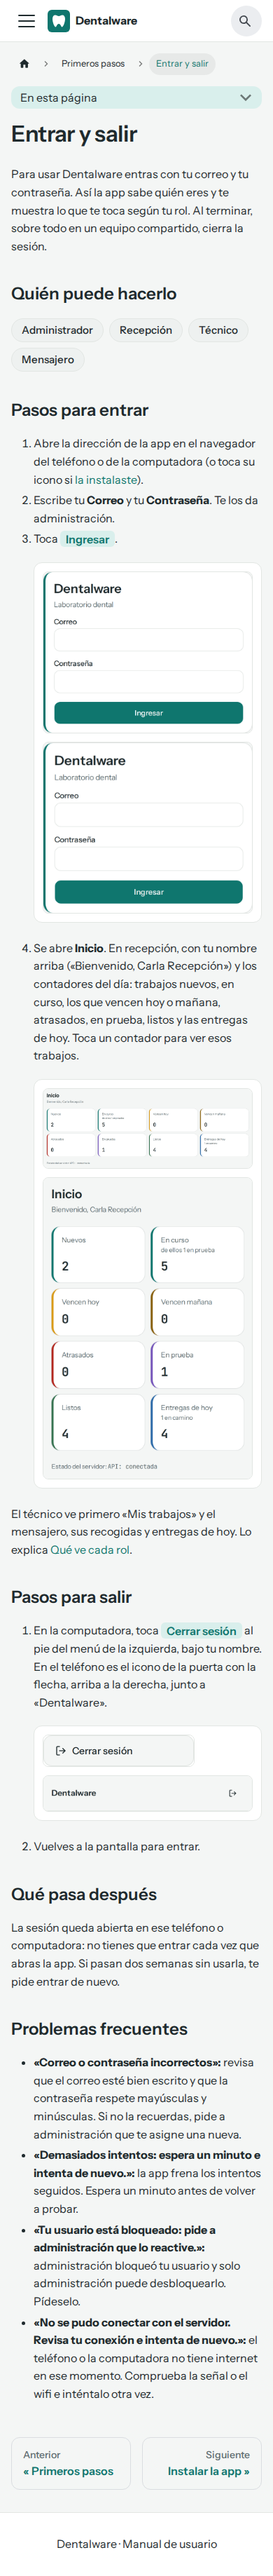
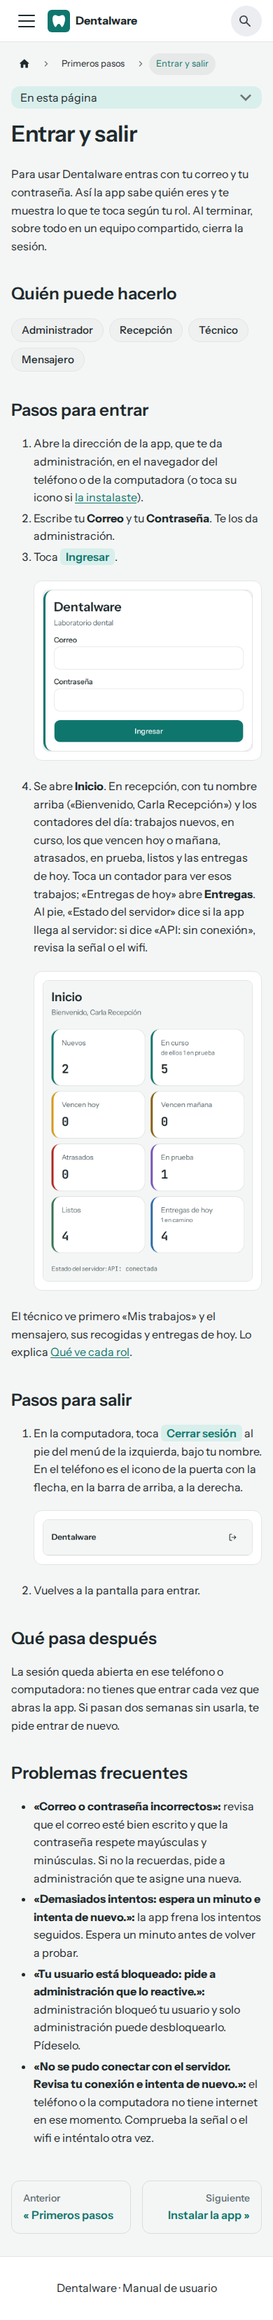
fix(manual): primeros pasos tras la revisión
- Instalar la app: rótulos del sistema tolerantes («Añadir» o «Agregar»,
  «Compartir» dentro de «⋯»), sin la frase sobre otros navegadores y con
  el pendiente de comprobarlos en teléfonos reales (también en la revisión
  de la It7).
- En el teléfono, una captura con las dos variantes muestra solo la del
  teléfono; entrar-formulario queda solo en escritorio.
- `recorte` (puro, con test) lanza si el elemento más el margen no cabe.
- El cruce comprueba que el lector encuentra cada `<Captura` de las guías.
- Prosa de Entrar y salir y vocabulario Administrador/administración;
  `:::info` admitido en la plantilla y el README.
- Enlaces del texto subrayados (Lighthouse link-in-text-block): 100 en
  accesibilidad en las tres guías.

Refs #127

Claude-Session: https://claude.ai/code/session_01QWXyKd64kwAcEzKZeJy9Ue

Changed region(s): [[0.0308, 0.0, 0.9538, 0.9961], [0.5538, 0.9649, 0.5846, 0.9961], [0.4615, 0.9649, 0.4923, 0.9961]]

diff --git a/apps/docs/capturas/helpers.ts b/apps/docs/capturas/helpers.ts
@@ -4,6 +4,7 @@ import type { UserRole } from '@dentalware/shared'
 import { expect, type Browser, type Locator, type Page, type TestInfo } from '@playwright/test'
 import sharp from 'sharp'
 import { esProyecto, rutaCaptura, type Proyecto } from '../src/capturas-rutas'
+import { recorte } from './recorte'
 
 // `__dirname` y no `import.meta.dirname`: apps/docs no lleva `"type": "module"` (rompe el SSR de
 // Docusaurus), así que Playwright carga estos archivos como CommonJS.
@@ -68,7 +69,7 @@ const SIN_DEVTOOLS = `.TanStackRouterDevtools, .tsqd-parent-container, .tsqd-tra
  * está: una guía nunca se queda con una captura vieja sin que lo note nadie. La de página también
  * espera a un elemento propio de la pantalla, para no capturarla a medio cargar. Con `margen`
  * (en px de CSS), el recorte deja ese aire de fondo de la página alrededor del elemento, que
- * tiene que caber en la ventana. */
+ * tiene que caber en la ventana (si no, `recorte` lanza). */
 export async function captura(
   page: Page,
   nombre: string,
@@ -92,21 +93,12 @@ export async function captura(
           await expect(objetivo).toBeVisible()
           await objetivo.scrollIntoViewIfNeeded()
           if (!opciones.margen) return objetivo.screenshot(comun)
-          return page.screenshot({ ...comun, clip: await recorte(page, objetivo, opciones.margen) })
+          const caja = await objetivo.boundingBox()
+          const ventana = page.viewportSize()
+          if (!caja || !ventana) throw new Error(`No se pudo medir el elemento de ${nombre}.`)
+          return page.screenshot({ ...comun, clip: recorte(caja, ventana, opciones.margen) })
         })()
   await sharp(png).png({ compressionLevel: 9, palette: true }).toFile(destino)
-}
-
-/** La caja del elemento más `margen` px por lado, sin salirse de la ventana. */
-async function recorte(page: Page, objetivo: Locator, margen: number) {
-  const caja = await objetivo.boundingBox()
-  const ventana = page.viewportSize()
-  if (!caja || !ventana) throw new Error('No se pudo medir el elemento de la captura.')
-  const x = Math.max(0, caja.x - margen)
-  const y = Math.max(0, caja.y - margen)
-  const derecha = Math.min(ventana.width, caja.x + caja.width + margen)
-  const abajo = Math.min(ventana.height, caja.y + caja.height + margen)
-  return { x, y, width: derecha - x, height: abajo - y }
 }
 
 /** Abre la ficha del trabajo de demostración por la referencia del paciente (`DEMO_CASES`). */

diff --git a/apps/docs/capturas/recorte.ts b/apps/docs/capturas/recorte.ts
@@ -1,0 +1,33 @@
+/** Caja en px de CSS, relativa a la ventana (la de `locator.boundingBox()`). */
+export type Caja = { x: number; y: number; width: number; height: number }
+
+/** Lo que mide de más una caja por redondeo (15.6 en vez de 16) sin que deje de caber. */
+const TOLERANCIA = 0.5
+
+/** La caja del elemento más `margen` px por lado. Lanza si no cabe en la ventana: con `margen`
+ * se recorta la página, que no se desplaza, y un elemento más grande saldría cortado. */
+export function recorte(caja: Caja, ventana: { width: number; height: number }, margen: number) {
+  const x = caja.x - margen
+  const y = caja.y - margen
+  const derecha = caja.x + caja.width + margen
+  const abajo = caja.y + caja.height + margen
+  if (
+    x < -TOLERANCIA ||
+    y < -TOLERANCIA ||
+    derecha > ventana.width + TOLERANCIA ||
+    abajo > ventana.height + TOLERANCIA
+  ) {
+    throw new Error(
+      `La captura con margen ${margen} no cabe en la ventana (${ventana.width}×${ventana.height}): ` +
+        `el elemento mide ${caja.width}×${caja.height} en (${caja.x}, ${caja.y}).`,
+    )
+  }
+  const izquierda = Math.max(0, x)
+  const arriba = Math.max(0, y)
+  return {
+    x: izquierda,
+    y: arriba,
+    width: Math.min(ventana.width, derecha) - izquierda,
+    height: Math.min(ventana.height, abajo) - arriba,
+  }
+}

diff --git a/apps/docs/capturas/recorte.test.ts b/apps/docs/capturas/recorte.test.ts
@@ -1,0 +1,36 @@
+import { describe, expect, it } from 'vitest'
+import { recorte } from './recorte'
+
+const ventana = { width: 412, height: 839 }
+
+describe('recorte', () => {
+  it('suma el margen por los cuatro lados', () => {
+    expect(recorte({ x: 16, y: 73, width: 380, height: 592 }, ventana, 16)).toEqual({
+      x: 0,
+      y: 57,
+      width: 412,
+      height: 624,
+    })
+  })
+
+  it('lanza si el elemento más el margen no cabe a lo ancho', () => {
+    expect(() => recorte({ x: 8, y: 100, width: 380, height: 100 }, ventana, 16)).toThrow(
+      'La captura con margen 16 no cabe en la ventana (412×839): el elemento mide 380×100 en (8, 100).',
+    )
+  })
+
+  it('lanza si el elemento más el margen no cabe a lo alto', () => {
+    expect(() => recorte({ x: 16, y: 100, width: 380, height: 730 }, ventana, 16)).toThrow(
+      'no cabe en la ventana',
+    )
+  })
+
+  it('tolera medio píxel de redondeo en los bordes', () => {
+    expect(recorte({ x: 15.6, y: 16, width: 380.8, height: 100 }, ventana, 16)).toEqual({
+      x: 0,
+      y: 0,
+      width: 412,
+      height: 132,
+    })
+  })
+})

diff --git a/apps/docs/src/css/custom.css b/apps/docs/src/css/custom.css
@@ -76,6 +76,13 @@ h1 {
   letter-spacing: -0.01em;
 }
 
+/* Los enlaces dentro del texto se distinguen también por el subrayado, no solo por el color
+ * (Lighthouse `link-in-text-block`). Las tarjetas de la portada ya son bloques con borde. */
+.markdown :is(p, li, td) > a:not(.portada__acceso) {
+  text-decoration: underline;
+  text-underline-offset: 0.15em;
+}
+
 /* Objetivos táctiles de 44 px: menú lateral (también el del teléfono), sus flechas y el menú del
  * teléfono */
 .menu__link,
@@ -140,6 +147,14 @@ h1 {
   height: auto;
   border: 1px solid var(--dw-plaster);
   border-radius: 0.5rem;
+}
+
+/* En el teléfono, de una captura con las dos variantes solo se ve la del teléfono: la de
+ * escritorio, encogida a 360 px, no se lee. */
+@media (max-width: 767px) {
+  .captura--doble .captura__img--escritorio {
+    display: none;
+  }
 }
 
 .captura figcaption {

diff --git a/apps/docs/capturas-referenciadas.test.ts b/apps/docs/capturas-referenciadas.test.ts
@@ -108,6 +108,16 @@ describe('lectura de <Captura> en las guías', () => {
 })
 
 describe('capturas referenciadas', () => {
+  it('el lector encuentra todas las `<Captura` de cada guía (ninguna se le escapa)', () => {
+    const distintas = walk(join(root, 'docs'), /\.mdx?$/).flatMap((archivo) => {
+      const texto = readFileSync(archivo, 'utf8')
+      const etiquetas = texto.match(/<Captura\b/g)?.length ?? 0
+      const leidas = capturasEnTexto(texto).length
+      return etiquetas === leidas ? [] : [`${archivo}: ${etiquetas} etiquetas, ${leidas} leídas`]
+    })
+    expect(distintas).toEqual([])
+  })
+
   it('existe el PNG de cada variante que pide una guía (escritorio; con `telefono`, las dos; con `solo`, esa)', () => {
     const faltan = capturasEnDocs().flatMap(({ archivo, nombre, telefono, solo }) =>
       proyectosCaptura({ telefono, solo })

diff --git a/apps/docs/src/components/captura.test.tsx b/apps/docs/src/components/captura.test.tsx
@@ -62,6 +62,16 @@ describe('Captura', () => {
     )
   })
 
+  it('con las dos variantes, la figura lleva `captura--doble` (en el teléfono se ve solo la del teléfono)', () => {
+    const { container } = render(<Captura nombre="a/b" alt="x" telefono />)
+    expect(container.querySelector('figure')).toHaveClass('captura', 'captura--doble')
+  })
+
+  it('con una sola variante, sin `captura--doble`', () => {
+    const { container } = render(<Captura nombre="a/b" alt="x" />)
+    expect(container.querySelector('figure')).not.toHaveClass('captura--doble')
+  })
+
   it('el pie, si lo hay, va en un figcaption', () => {
     render(<Captura nombre="x/y" alt="x" pie="Así se ve con una recogida pendiente." />)
     expect(screen.getByText('Así se ve con una recogida pendiente.').tagName).toBe('FIGCAPTION')

diff --git a/apps/docs/capturas/primeros-pasos.spec.ts b/apps/docs/capturas/primeros-pasos.spec.ts
@@ -9,7 +9,11 @@ test.describe('Primeros pasos', () => {
     const tarjeta = page
       .locator('[data-slot=card]')
       .filter({ has: page.getByRole('button', { name: 'Ingresar' }) })
-    await captura(page, 'primeros-pasos/entrar-formulario', tarjeta, { testInfo })
+    // Solo la de escritorio: en el teléfono la tarjeta es la misma.
+    await captura(page, 'primeros-pasos/entrar-formulario', tarjeta, {
+      testInfo,
+      solo: 'escritorio',
+    })
   })
 })
 

diff --git a/apps/docs/src/components/captura.tsx b/apps/docs/src/components/captura.tsx
@@ -36,7 +36,8 @@ export function Captura({
 }) {
   const proyectos = proyectosCaptura({ telefono, solo })
   return (
-    <figure className="captura">
+    // `captura--doble`: en el teléfono se ve solo la variante del teléfono (`custom.css`).
+    <figure className={proyectos.length > 1 ? 'captura captura--doble' : 'captura'}>
       <div className="captura__imagenes">
         {proyectos.map((p) => (
           <CapturaImg

diff --git a/apps/docs/docs/primeros-pasos/entrar-y-salir.md b/apps/docs/docs/primeros-pasos/entrar-y-salir.md
@@ -14,18 +14,18 @@ Para usar Dentalware entras con tu correo y tu contraseña. Así la app sabe qui
 
 ## Pasos para entrar
 
-1. Abre la dirección de la app en el navegador del teléfono o de la computadora (o toca su icono si [la instalaste](./instalar-la-app.md)).
+1. Abre la dirección de la app, que te da administración, en el navegador del teléfono o de la computadora (o toca su icono si [la instalaste](./instalar-la-app.md)).
 2. Escribe tu **Correo** y tu **Contraseña**. Te los da administración.
 3. Toca <Boton>Ingresar</Boton>.
-   <Captura nombre="primeros-pasos/entrar-formulario" alt="Pantalla para entrar: correo, contraseña y el botón Ingresar" telefono />
-4. Se abre **Inicio**. En recepción, con tu nombre arriba («Bienvenido, Carla Recepción») y los contadores del día: trabajos nuevos, en curso, los que vencen hoy o mañana, atrasados, en prueba, listos y las entregas de hoy. Toca un contador para ver esos trabajos.
+   <Captura nombre="primeros-pasos/entrar-formulario" alt="Pantalla para entrar: correo, contraseña y el botón Ingresar" />
+4. Se abre **Inicio**. En recepción, con tu nombre arriba («Bienvenido, Carla Recepción») y los contadores del día: trabajos nuevos, en curso, los que vencen hoy o mañana, atrasados, en prueba, listos y las entregas de hoy. Toca un contador para ver esos trabajos; «Entregas de hoy» abre **Entregas**. Al pie, «Estado del servidor» dice si la app llega al servidor: si dice «API: sin conexión», revisa la señal o el wifi.
    <Captura nombre="primeros-pasos/inicio-recepcion" alt="Inicio de recepción: contadores de trabajos nuevos, en curso, que vencen, atrasados, en prueba, listos y entregas de hoy" telefono />
 
 El técnico ve primero «Mis trabajos» y el mensajero, sus recogidas y entregas de hoy. Lo explica [Qué ve cada rol](./que-ve-cada-rol.md).
 
 ## Pasos para salir
 
-1. En la computadora, toca <Boton>Cerrar sesión</Boton> al pie del menú de la izquierda, bajo tu nombre. En el teléfono es el icono de la puerta con la flecha, arriba a la derecha, junto a «Dentalware».
+1. En la computadora, toca <Boton>Cerrar sesión</Boton> al pie del menú de la izquierda, bajo tu nombre. En el teléfono es el icono de la puerta con la flecha, en la barra de arriba, a la derecha.
    <Captura nombre="primeros-pasos/cerrar-sesion" alt="Botón Cerrar sesión: en la computadora, al pie del menú; en el teléfono, el icono arriba a la derecha" telefono />
 2. Vuelves a la pantalla para entrar.
 

diff --git a/apps/docs/docs/primeros-pasos/instalar-la-app.md b/apps/docs/docs/primeros-pasos/instalar-la-app.md
@@ -16,15 +16,15 @@ Dentalware se abre desde el navegador, pero también puedes instalarlo: queda un
 
 1. Abre la dirección de la app en **Chrome**.
 2. Toca el menú **⋮**, arriba a la derecha.
-3. Toca **Instalar aplicación** (en algunos teléfonos dice **Añadir a pantalla de inicio**).
+3. Toca **Instalar aplicación** (en algunos teléfonos dice **Añadir a pantalla de inicio**; en otros, **Agregar**).
 4. Confirma con **Instalar**. El icono de Dentalware aparece en la pantalla de inicio.
 
 ## Pasos en un iPhone
 
-1. Abre la dirección de la app en **Safari** (en otro navegador no se puede instalar).
-2. Toca el botón **Compartir** (el cuadrado con la flecha hacia arriba), abajo en el centro.
-3. Desliza hacia abajo y toca **Añadir a pantalla de inicio**.
-4. Toca **Añadir**, arriba a la derecha. El icono de Dentalware aparece en la pantalla de inicio.
+1. Abre la dirección de la app en **Safari**.
+2. Toca el botón **Compartir** (el cuadrado con la flecha hacia arriba). Si no lo ves, toca **⋯** y después **Compartir**.
+3. Desliza hacia abajo y toca **Añadir a pantalla de inicio** (en algunos teléfonos dice **Agregar**).
+4. Toca **Añadir** (o **Agregar**), arriba a la derecha. El icono de Dentalware aparece en la pantalla de inicio.
 
 ## Pasos en la computadora
 
@@ -42,5 +42,7 @@ No hace falta actualizar nada a mano. Cuando hay una versión nueva, la app la d
 
 ## Problemas frecuentes
 
-- **No aparece «Instalar aplicación» ni el icono de instalar:** comprueba que estés en Chrome (Android o computadora) o en Safari (iPhone). Si ya la instalaste antes, la opción no vuelve a salir: busca el icono de Dentalware.
+- **No aparece «Instalar aplicación» ni el icono de instalar:** prueba con Chrome (Android o computadora) o con Safari (iPhone). Si ya la instalaste antes, la opción no vuelve a salir: busca el icono de Dentalware.
 - **La app instalada no abre:** necesita internet para entrar. Comprueba la señal o el wifi y vuelve a abrirla.
+
+{/* Pendiente: comprobar los rótulos en los teléfonos del laboratorio (Tarea 9 de la It7) */}

diff --git a/apps/docs/README.md b/apps/docs/README.md
@@ -24,8 +24,11 @@ construye también el manual, así que el job `quality` de CI lo comprueba en ca
    míralas y escribe los pasos sobre lo que se ve.
 3. Frases cortas, en sentence case y con el vocabulario del laboratorio (trabajo, clínica, doctor,
    pieza, fase, recogida, entrega, saldo a favor). Los botones, tal cual salen en la app.
-4. `:::warning Importante` solo para lo que no tiene vuelta (finalizar, cancelar, anular un pago) y
-   `:::tip Consejo` para atajos.
+4. `:::warning Importante` solo para lo que no tiene vuelta (finalizar, cancelar, anular un pago),
+   `:::tip Consejo` para atajos y `:::info <título>` para notas neutras (p. ej. «Precios»: el técnico y
+   el mensajero no los ven).
+5. Las páginas de referencia (como «Qué ve cada rol») no son tareas: no llevan «Quién puede hacerlo»
+   ni pasos.
 
 Los tres componentes propios se usan en cualquier página sin importarlos:
 
@@ -52,7 +55,8 @@ El texto de un botón o enlace de la app, tal cual.
 ```
 
 Una captura de `static/img/capturas/<nombre>.escritorio.png`; con `telefono`, también la de
-`<nombre>.telefono.png` al lado (debajo si las dos no caben a su tamaño real), y con `solo="telefono"`, solo esa. `alt`
+`<nombre>.telefono.png` al lado (debajo si las dos no caben a su tamaño real; en el teléfono, solo la
+del teléfono), y con `solo="telefono"`, solo esa. `alt`
 describe lo que se ve; `pie` añade un texto debajo. Las capturas se toman a 2 píxeles por punto y
 `Captura` las declara `2x`: se ven a su tamaño real en la app, nítidas, y nunca se estiran.
 

diff --git a/docs/superpowers/reviews/2026-10-13-revision-ui-ux-iteracion-7.md b/docs/superpowers/reviews/2026-10-13-revision-ui-ux-iteracion-7.md
@@ -173,6 +173,7 @@ Minor diferidos, anotados en el ledger de la ola; ninguno bloquea:
 - Icono en iPhone (UX7-10).
 - `FormDialog` hace `scrollIntoView` al enfocar un campo: comprobar en Safari de iOS, abriendo un diálogo desde una lista desplazada, que no mueve la página de fondo (M-3 de la revisión final).
 - Barra de estado en Android (UX7-11).
+- Manual, «Instalar la app»: comprobar los rótulos del sistema (Chrome de Android, Safari de iOS y Chrome de la computadora: «Instalar aplicación», «Añadir»/«Agregar», «Compartir» o «⋯») en los teléfonos del laboratorio (#127).
 
 ### Capturas «después»
 
